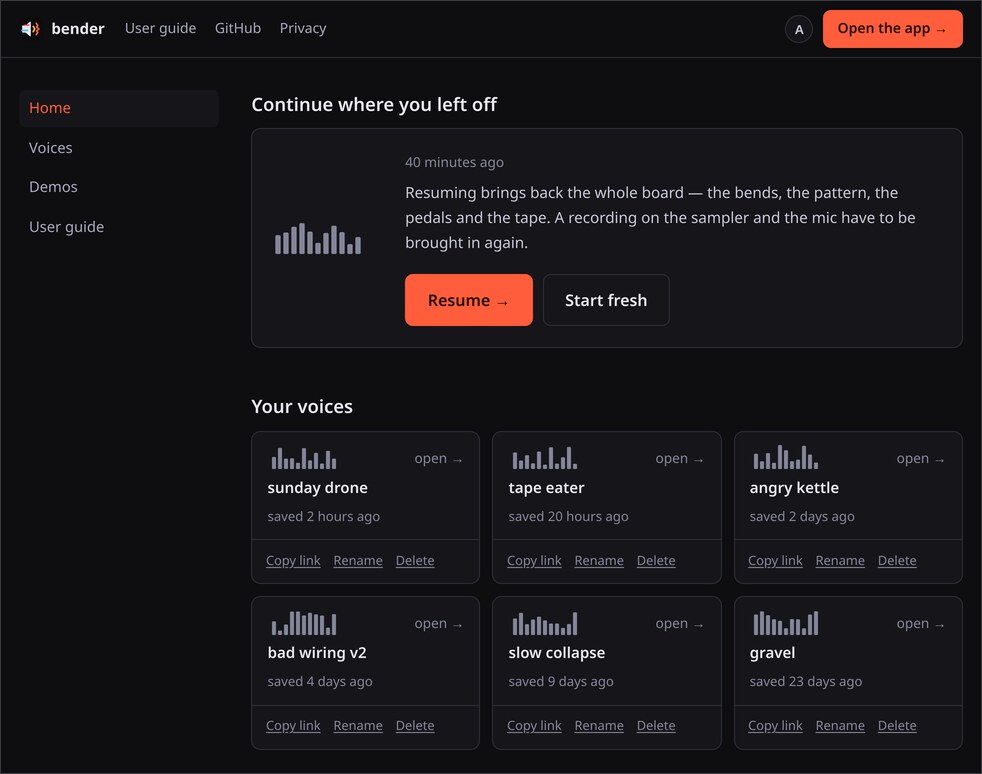
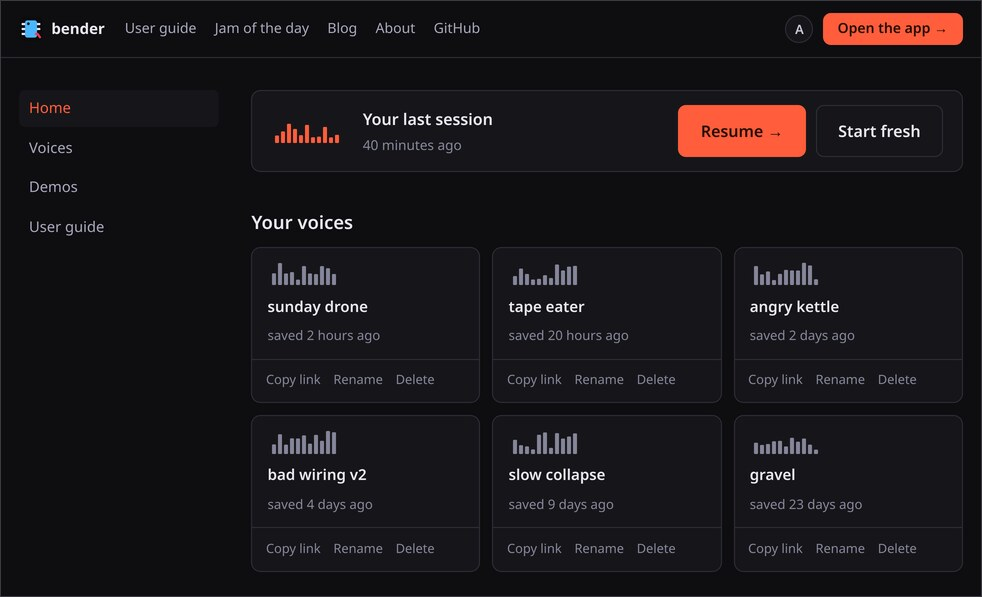
feat(home): a tidier signed-in home: a slim resume strip, voices first, earlier sessions as a list

diff --git a/src/home/sections.ts b/src/home/sections.ts
@@ -1,5 +1,5 @@
 // The sections down the signed-in home, in the order they are stacked: the
-// board you had open last, the ones before it, and everything you have saved.
+// board you had open last, everything you have saved, and the sessions before.
 
 import { sinceWords } from 'skillet-shared/relative-time'
 
@@ -12,78 +12,75 @@ import { markFor } from './mark.ts'
 import type { HomeDoc } from '../ui/cloud.ts'
 import type { RecentSession, SavedVoice } from '../ui/voiceModel.ts'
 
-function section(id: string, heading: string, sub?: string): HTMLElement {
+function section(id: string, heading: string): HTMLElement {
   const box = el('section', 'homeSec')
   box.id = id
   box.append(el('h2', 'head', heading))
-  if (sub !== undefined) box.append(el('p', 'sub', sub))
+  return box
+}
+
+function resumeStrip(current: RecentSession, now: number) {
+  const box = el('section', 'homeSec resume')
+  box.id = 'resume'
+  const text = el('div', 'resumeText')
+  text.append(
+    el('h2', 'resumeHead', 'Your last session'),
+    el('p', 'when', sinceWords(current.at, now)),
+  )
+  const go = el('a', 'btn primary', 'Resume →')
+  go.href = boardUrl(current.query)
+  go.title =
+    'Brings back the bends, pattern, pedals and tape. Sampler recordings and the mic need bringing in again.'
+  go.addEventListener('click', () => {
+    handOffSession(current.id)
+  })
+  const fresh = el('a', 'btn', 'Start fresh')
+  fresh.href = appUrl
+  const row = el('div', 'resumeCta')
+  row.append(go, fresh)
+  box.append(markFor(current.query), text, row)
   return box
 }
 
 export function resumeSection(doc: HomeDoc, now: number) {
   const current = doc.recent[0]
-  if (current === undefined) return undefined
-  const box = section('resume', 'Continue where you left off')
-  const cardBox = el('div', 'resumeCard')
-  cardBox.append(markFor(current.query))
-
-  const body = el('div', 'resumeBody')
-  body.append(
-    el('p', 'when', sinceWords(current.at, now)),
-    el(
-      'p',
-      'resumeSays',
-      'Resuming brings back the whole board — the bends, the pattern, the pedals and the tape. A recording on the sampler and the mic have to be brought in again.',
-    ),
-  )
-  const row = el('p', 'resumeCta')
-  const go = el('a', 'btn primary')
-  go.href = boardUrl(current.query)
-  go.addEventListener('click', () => {
-    handOffSession(current.id)
-  })
-  go.textContent = 'Resume →'
-  const fresh = el('a', 'btn')
-  fresh.href = appUrl
-  fresh.textContent = 'Start fresh'
-  row.append(go, fresh)
-  body.append(row)
-
-  cardBox.append(body)
-  box.append(cardBox)
-  return box
+  return current === undefined ? undefined : resumeStrip(current, now)
 }
 
-// A voice with the session's board names its card.
+// A voice with the session's board names its row.
 const savedAs = (doc: HomeDoc, session: RecentSession) =>
   doc.voices
     .filter(v => v.query === session.query)
     .toSorted((a, b) => (b.savedAt ?? 0) - (a.savedAt ?? 0))[0]
 
+function sessionRow(doc: HomeDoc, session: RecentSession, now: number) {
+  const match = savedAs(doc, session)
+  const link = el('a', 'sessionRow')
+  link.href = boardUrl(session.query)
+  link.addEventListener('click', () => {
+    handOffSession(session.id)
+  })
+  link.append(
+    markFor(session.query),
+    el('span', 'sessionWhen', sinceWords(session.at, now)),
+    ...(match === undefined ? [] : [el('span', 'says', match.name)]),
+  )
+  const item = el('li')
+  item.append(link)
+  return item
+}
+
+function sessionsSection(doc: HomeDoc, sessions: RecentSession[], now: number) {
+  const box = section('recent', 'Earlier sessions')
+  const list = el('ul', 'sessions')
+  list.append(...sessions.map(session => sessionRow(doc, session, now)))
+  box.append(list)
+  return box
+}
+
 export function earlierSection(doc: HomeDoc, now: number) {
   const earlier = doc.recent.slice(1)
-  if (earlier.length === 0) return undefined
-  const box = section(
-    'recent',
-    'Earlier sessions',
-    'The app saves each visit as you play. Opening one carries on from where that visit stopped.',
-  )
-  const grid = el('ul', 'grid')
-  for (const session of earlier) {
-    const match = savedAs(doc, session)
-    grid.append(
-      card(
-        session.query,
-        sinceWords(session.at, now),
-        match === undefined ? 'a session' : `saved as “${match.name}”`,
-        () => {
-          handOffSession(session.id)
-        },
-      ),
-    )
-  }
-  box.append(grid)
-  return box
+  return earlier.length === 0 ? undefined : sessionsSection(doc, earlier, now)
 }
 
 function emptyVoices(): HTMLElement {

diff --git a/src/site/home.css b/src/site/home.css
@@ -1,5 +1,5 @@
-/* bender's own site styles: the landing page's hero, the demo cards and a
-   resume card that shows a mark. The components both sites share are in
+/* bender's own site styles: the landing page's hero, the demo cards and the
+   signed-in home. The components both sites share are in
    site.css, and the guide's prose is in guide.css. */
 
 .landing {
@@ -202,30 +202,91 @@
   line-height: 1.45;
 }
 
-/* The resume card shows the board's mark where videoskillet shows a still, so
-   these replace the grid site.css lays that card out on. Written under `.home`
-   — where main.ts draws the card, and the only place it appears — so they win
-   on specificity rather than on site.css being linked first. */
-.home .resumeCard {
+/* The signed-in home: a narrower column than the landing page, a slim resume
+   strip, and earlier sessions as a list rather than more cards. */
+.home .homeMain {
+  max-width: 62rem;
+  gap: 2.25rem;
+}
+.home .resume {
   display: flex;
   align-items: center;
-  gap: 1.35rem;
-  padding-left: 1.35rem;
+  gap: 1.25rem;
+  padding: 0.9rem 1.15rem;
+  background: var(--surface);
+  border: 1px solid var(--border-faint);
+  border-radius: 0.6rem;
 }
-.home .resumeCard .mark {
+.home .resume .mark {
   flex: none;
-  width: 5.5rem;
-  height: 2rem;
+  fill: var(--accent);
 }
-@media (max-width: 44rem) {
-  .home .resumeCard {
-    flex-direction: column;
-    align-items: flex-start;
-    padding-top: 1.35rem;
+.resumeText {
+  flex: 1;
+  min-width: 0;
+}
+.resumeHead {
+  margin: 0 0 0.1rem;
+  font-size: 1rem;
+  font-weight: 600;
+}
+.home .resume .resumeCta {
+  margin: 0;
+}
+@media (max-width: 40rem) {
+  .home .resume {
+    flex-wrap: wrap;
   }
-  .home .resumeBody {
-    padding: 0 1.35rem 1.35rem 0;
-  }
+}
+
+.home .card .mark {
+  margin-bottom: 0.2rem;
+}
+.home .cardAct {
+  text-decoration: none;
+}
+.home .cardAct:hover,
+.home .cardAct:focus-visible {
+  color: var(--accent);
+}
+
+.sessions {
+  display: grid;
+  grid-template-columns: repeat(auto-fill, minmax(min(18rem, 100%), 1fr));
+  gap: 0.15rem 1rem;
+  margin: 0;
+  padding: 0;
+  list-style: none;
+}
+.sessionRow {
+  display: flex;
+  align-items: center;
+  gap: 0.75rem;
+  padding: 0.45rem 0.6rem;
+  border-radius: 0.4rem;
+  color: var(--fg2);
+  font-size: 0.9rem;
+  text-decoration: none;
+}
+.sessionRow:hover,
+.sessionRow:focus-visible {
+  background: var(--surface);
+  color: var(--fg);
+}
+.sessionRow .mark {
+  flex: none;
+  width: 3rem;
+  height: 1rem;
+}
+.sessionRow:hover .mark,
+.sessionRow:focus-visible .mark {
+  fill: var(--accent);
+}
+.sessionRow .says {
+  min-width: 0;
+  overflow: hidden;
+  text-overflow: ellipsis;
+  white-space: nowrap;
 }
 
 .cardBone {

diff --git a/src/home/cards.ts b/src/home/cards.ts
@@ -14,19 +14,15 @@ import { markFor } from './mark.ts'
 
 import type { SavedVoice } from '../ui/voiceModel.ts'
 
-export function card(
-  query: string,
-  name: string,
-  says: string,
-  onOpen?: () => void,
-): HTMLElement {
+export function card(query: string, name: string, says: string): HTMLElement {
   const item = el('li')
   const link = el('a', 'card')
   link.href = boardUrl(query)
-  if (onOpen !== undefined) link.addEventListener('click', onOpen)
-  const top = el('span', 'cardTop')
-  top.append(markFor(query), el('span', 'open', 'open →'))
-  link.append(top, el('span', 'cardName', name), el('span', 'says', says))
+  link.append(
+    markFor(query),
+    el('span', 'cardName', name),
+    el('span', 'says', says),
+  )
   item.append(link)
   return item
 }

diff --git a/src/ui/whySignIn.ts b/src/ui/whySignIn.ts
@@ -23,9 +23,9 @@ export const HOW = 'It’s a Google login, and the boards are stored in Firebase
     and `pnpm dash` fails if the shot it takes comes out any other size. */
 export const SHOT = 'dashboard.jpg'
 export const SHOT_W = 982
-export const SHOT_H = 774
+export const SHOT_H = 597
 
 export const SHOT_ALT =
-  'The home page signed in: a card for the board you had open last, and six saved boards in a grid with the day each one was saved'
+  'The home page signed in: a strip to resume the board you had open last, and six saved boards in a grid with the day each one was saved'
 
 export const SHOT_CAPTION = 'Your home page, once you’re signed in.'

diff --git a/src/home/main.ts b/src/home/main.ts
@@ -93,8 +93,8 @@ export function showHome(user: CloudUser, doc: HomeDoc, now = Date.now()) {
     user,
     [
       resumeSection(doc, now),
-      earlierSection(doc, now),
       voicesSection(doc, now, edits),
+      earlierSection(doc, now),
     ].filter(box => box !== undefined),
   )
 }
